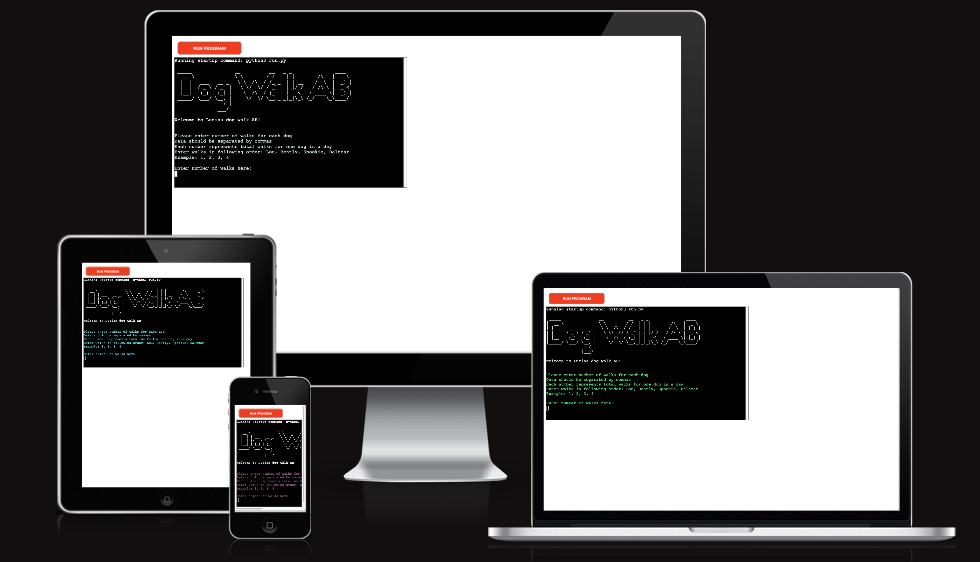
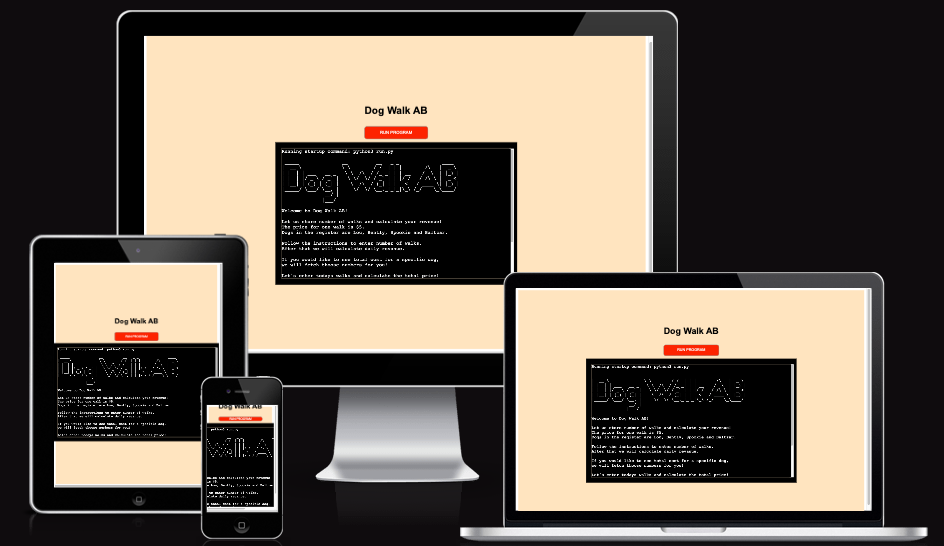
Added readme documentation about templete used for project.

diff --git a/views/layout.html b/views/layout.html
@@ -15,14 +15,14 @@
             font-family: Arial;
         }
 
+        /* Code inspired by other student project by Claudia Bergstaller*/
         #container {
         display: flex;
         flex-direction: column;
         align-items: center;
         justify-content: center;
         height: 100vh;
-        background-image: url('/images/amiresponsive.png');
-        background-color: bisque;
+        background-color: rgb(212, 196, 142);
         background-size: cover;
         }
 

diff --git a/README.md b/README.md
@@ -10,7 +10,7 @@ Dog Walk AB is a personalized program for dog walking companies. This program wi
 
 ## User Experience 
 
-This program runs inside a mock terminal. This limited the ability to create a creative frontend for the user. To create some user friendly features styling has been added to the text inside the terminal. The text will change color each time the program runs. Darker text will not be used since this would create a bad user experience. Important text content is highlighted with red color. 
+This program runs inside a mock terminal. This limited the ability to create a creative frontend for the user. To create some user friendly features styling has been added to the text inside the terminal. The text will change color each time the program runs. Darker text will not be used since this would create a bad user experience. Important text content is highlighted with red color. The background of the site has a light orange color to give a fun and calming front. The terminal and "RUN PROGRAM! button has been placed in the center of the site. This was to give a nicer overall look of the site. A header element with the text "Dog Walk AB" has been placed in the top of the page. This will immediately inform the user of the name of the program.
 
 A pyfiglet text with Dog Walk AB logo welcomes the user each time the program is started. There were several fonts to choose from for the logo. Ultimately the font that were chosen suited the terminal without taking up to much space or being to distractive.
 
@@ -96,6 +96,9 @@ When the user is ready to leave the program, he/she enters exit in the input. Be
 
 *** 
 ## Data Model
+
+Dog Walk AB was created with templete provided by Code Institue. The code was written with Cross Platform cloud IDE, Codeanywhere.
+
 The walks and price information is stored in a Google spread sheet. The worksheet contains two sheets, "walks" and "price". Inside the "walks" sheet information entered by user is stored. This information is then used to calculate the price, and then store price information inside the "price" sheet.
 When information is imported from the worksheet, it reads as a List by default. To be able to calculate walks and price information the List items are turned into integers instead of strings.
 
@@ -224,6 +227,7 @@ Note, this program uses Heroku to function. This means that deployment can not f
 - My fantastic mentor Brian O'Hare
 - Class mentor David Calikes who helped me getting trough this project
 - Love Sandwiches project
+- Slack community and fellow classmates 
 
 #### ChatGPT
 ChatGPT was used to explain python language. ChatGPT helped with explaining while loop, functions and try-except statements. ChatGPT was used to fix bug that made deleted cells into strings. ChatGPT provided code that helped fix this bug. The code provided will tell the computer to read empty cells as digits. 
